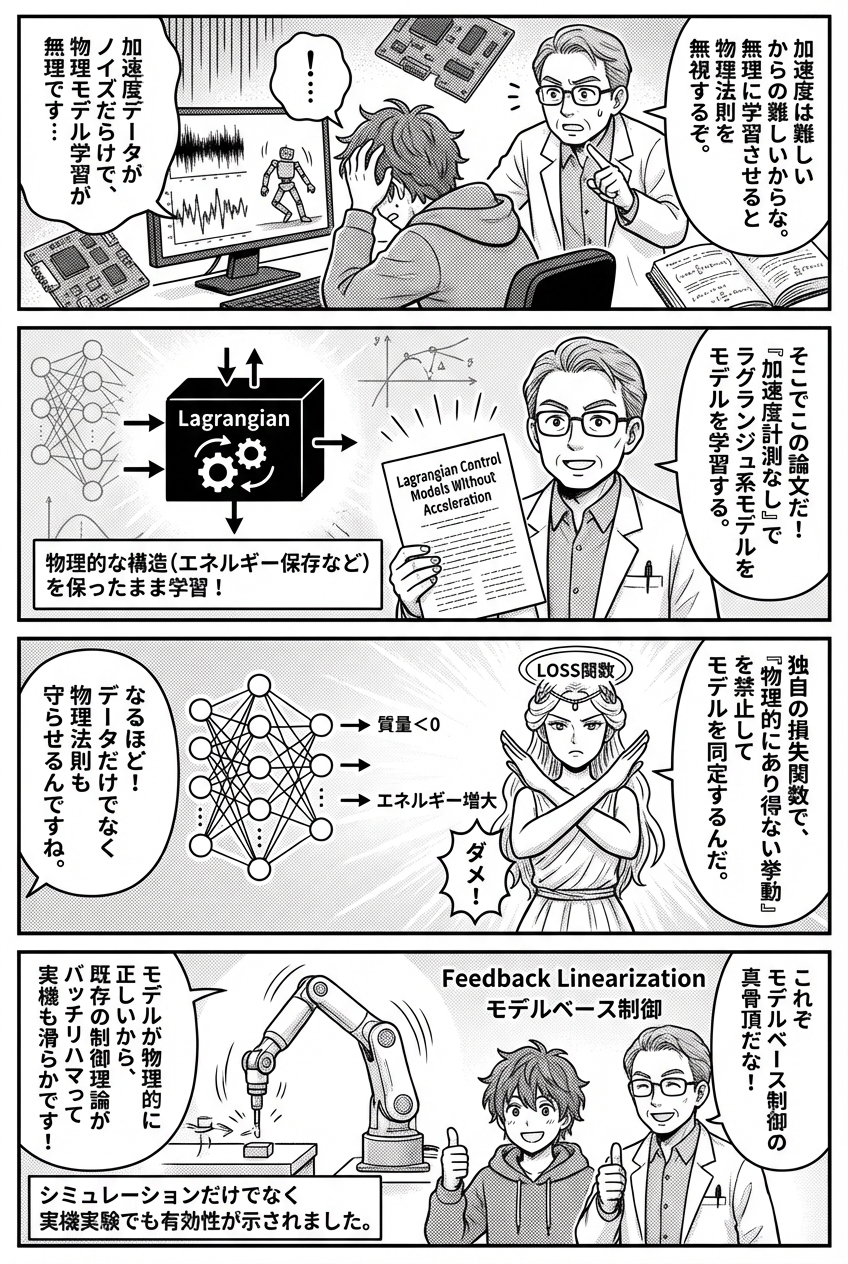
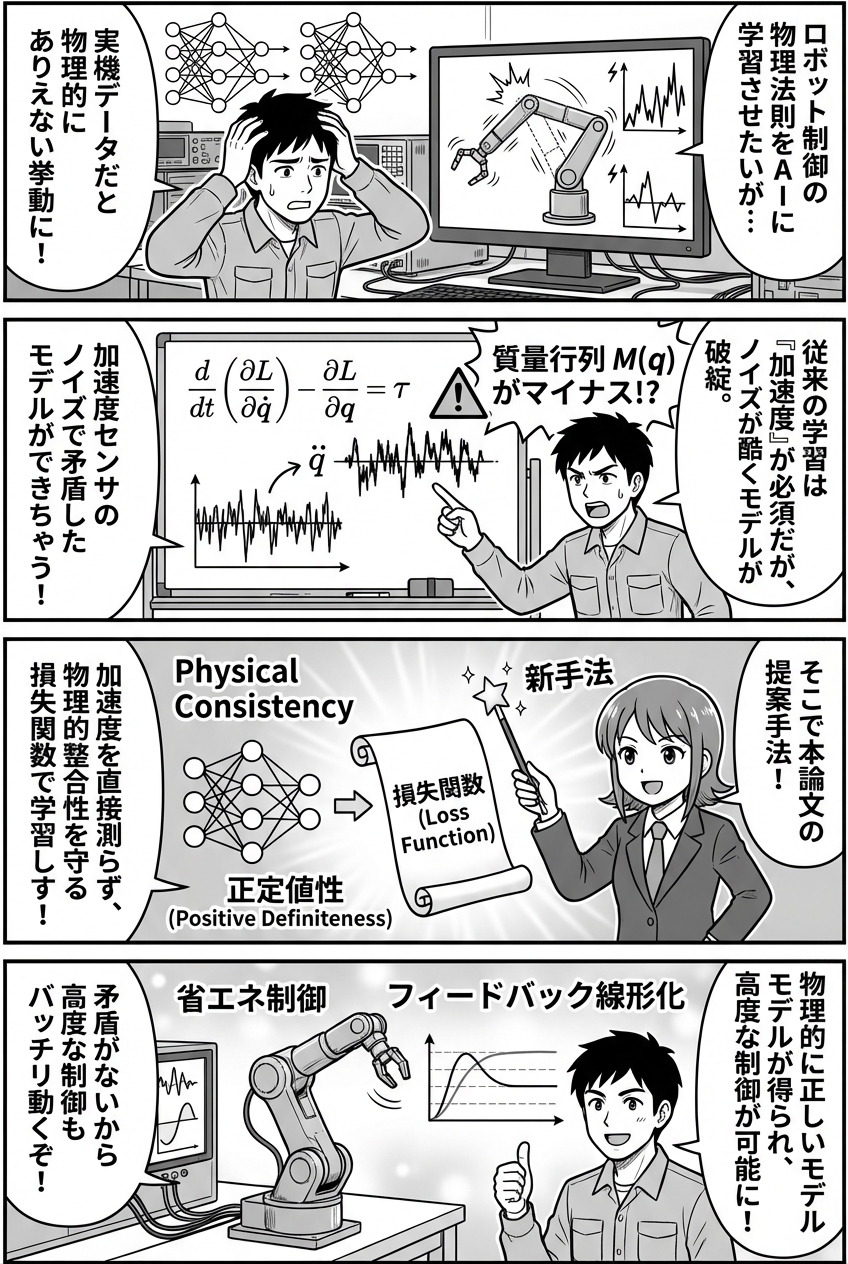
Add auto manga article for 2512.03035v1

diff --git a/articles/2025-12-04-arxiv-2512-03035v1.md b/articles/2025-12-04-arxiv-2512-03035v1.md
@@ -1,5 +1,5 @@
 ---
-title: "加速度計測を用いない物理的整合性のあるラグランジュ制御モデルの学習"
+title: "加速度計測を用いずに物理的整合性を保ったラグランジュ制御モデルの学習"
 emoji: "📘"
 type: "idea"
 topics: ["arxiv", "機械学習", "論文解説", "AI", "gemini"]
@@ -29,23 +29,25 @@ published: true
 
 ### 論文の概要解説
 
-**【背景と課題】**
-ロボットアームなどの機械システムを精密に制御するには、その動きを記述する正確な「数理モデル（運動方程式）」が必要です。近年、ニューラルネットワークを用いて実験データからこの物理モデルを自動学習する手法が注目されています。
-しかし、現実のデータにはノイズが含まれるため、AIが学習したモデルが「エネルギー保存則」などの物理法則を破ってしまう（物理的にありえない挙動をする）ことが多く、実際の制御に使うと暴走する危険がありました。また、多くの場合、計測が難しくノイズが乗りやすい「加速度」のデータが学習に必須であることもネックでした。
+この論文は、ロボットアームなどの**機械システム（ラグランジュ系）の動きを、AI（ニューラルネットワーク）を使って高精度にモデル化し、制御に応用する手法**を提案しています。
 
-**【提案手法と新規性】**
-この論文では、**加速度データを使わずに、物理的に矛盾のないモデルを学習する新しいアルゴリズム**を提案しています。
-具体的には、AIの学習時に使う「損失関数（モデルの正解率を測る数式）」を工夫し、物理的な制約（慣性行列の性質など）を厳密に守らせる仕組みを取り入れました。これにより、限られたノイズ混じりのデータからでも、物理法則に忠実なモデルを構築できます。
+**【背景と課題】**
+近年、物理法則を組み込んだAI（ラグランジュ・ニューラルネットワークなど）が注目されています。しかし、実機データにはノイズが多く、AIが学習した結果、「質量が負になる」といった**物理的にありえないモデル**が出来上がってしまう問題がありました。また、学習に「加速度」のデータが必要な手法が多いですが、実機での加速度計測はノイズが激しく、精度低下の原因となっていました。
+
+**【提案手法】**
+著者は、**加速度データを使わずに**、位置と速度のデータだけで物理モデルを学習する新しい手法を開発しました。具体的には、物理的な整合性（エネルギー保存則や質量の正定値性など）を強制する特殊な「損失関数（AIの学習目標）」を設計しました。
 
 **【成果とメリット】**
-シミュレーションと実機実験の両方において、従来手法よりもはるかに物理的な整合性が高いモデルが得られることが確認されました。
-最大のメリットは、学習されたモデルが物理的に正しいため、**高度な制御理論（フィードバック線形化やエネルギーベース制御など）を、そのまま実機に適用できる**点です。実際に実験装置を用いて、提案手法で作ったモデルが高い制御性能を発揮することを実証しています。
+これにより、ノイズの多い限られたデータからでも、物理法則に矛盾しない正しいモデルを学習できるようになりました。さらに、このモデルを使うことで、従来の制御理論（エネルギーベース制御など）を実機に適用し、高精度な制御が可能であることを実証しました。
 
-### 研究のポイント
+### 本研究のポイント
 
-*   **加速度計測が不要**：ノイズの多い加速度センサや微分計算に頼らず、位置と速度の情報だけで高精度な学習が可能です。
-*   **物理的整合性の保証**：独自の学習アルゴリズムにより、物理法則（質量やエネルギーの性質）を破らない「嘘をつかないモデル」を生成します。
-*   **実機制御への実用性**：単なるシミュレーション上の予測だけでなく、学習したモデルを使って実際のハードウェアを安定して制御できることを実証しました。
+*   **加速度計測が不要**
+    *   ノイズが乗りやすい加速度センサや微分計算に頼らず、位置と速度だけで学習可能です。
+*   **「物理的に正しい」モデルを保証**
+    *   AIが物理法則を無視した挙動（物理的整合性の欠如）を学習するのを防ぎます。
+*   **実機制御への応用**
+    *   単なるシミュレーション予測だけでなく、実際にこのモデルを使ってロボット等を精密に制御できることを示しました。
 
 ---
 
